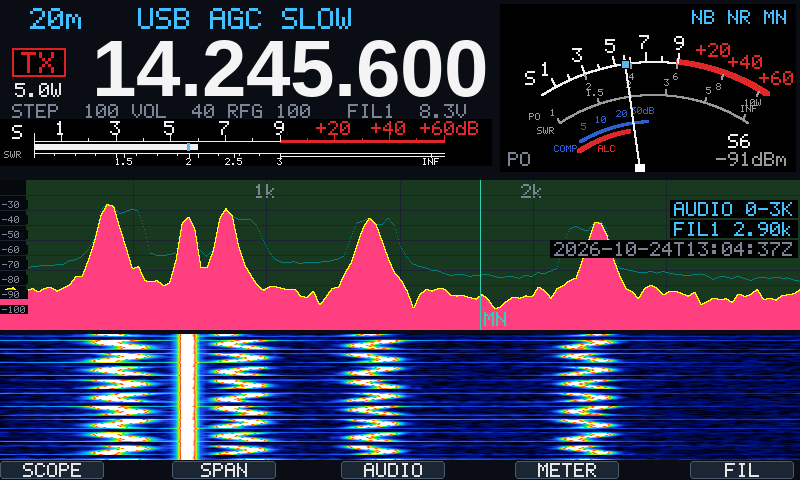
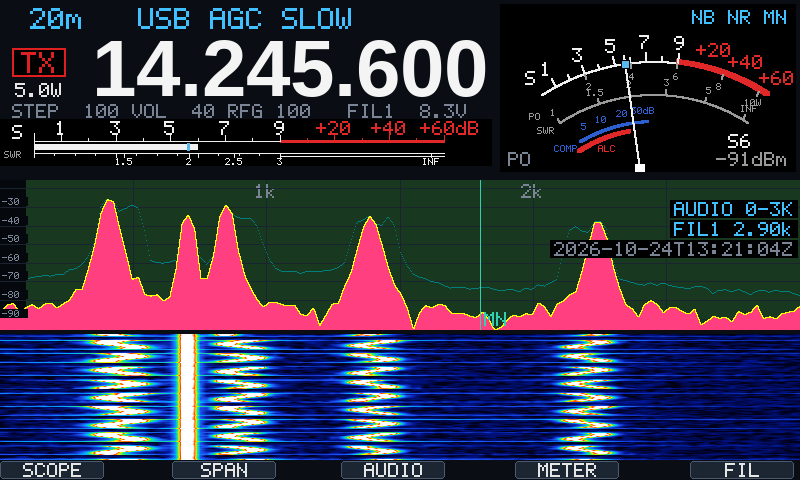
x6100_trx: audio scope with floor-normalised scale, narrower in split view (3/8)

diff --git a/tools/x6100_trx.c b/tools/x6100_trx.c
@@ -1168,6 +1168,8 @@ static bool on_knob(rx_t *rx, input_t in, int value)
 #define AS_RATE		48000
 #define AS_DB_MIN	-110.0f	/* dBFS */
 #define AS_DB_MAX	-10.0f
+#define AS_RANGE_DB	80.0f		/* normalised window height */
+#define AS_FLOOR_DB	10.0f		/* window bottom under the audio floor */
 #define SPEC_Y		180
 #define SPEC_H		150
 #define WF_Y		(SPEC_Y + SPEC_H + 4)
@@ -2289,9 +2291,14 @@ static float audio_db_at(const float *a, int x, int w, int range_hz)
 	return (float) (a[i] * (1.0 - t) + a[i + 1] * t);
 }
 
+// Audio scope vertical scale, normalised: the bottom follows the audio noise
+// floor (AS_FLOOR_DB under it) and the window is AS_RANGE_DB high, so the
+// picture stays put whatever the volume or band noise; labels stay in dBFS
+static float g_as_bottom = AS_DB_MIN;
+
 static int audio_y(float db)
 {
-	float n = (db - AS_DB_MIN) / (AS_DB_MAX - AS_DB_MIN);
+	float n = (db - g_as_bottom) / AS_RANGE_DB;
 
 	n = n < 0.0f ? 0.0f : n > 1.0f ? 1.0f : n;
 	return SPEC_Y + SPEC_H - 1 - (int) (n * (float) (SPEC_H - 1));
@@ -2309,6 +2316,8 @@ static void draw_audio_spec(screen_t *scr, const rx_t *rx, int x0, int w)
 	const int range = rx->arange ? 6000 : 3000;
 	uint32_t lo, hi;
 	int prev_y = -1;
+
+	g_as_bottom = scr->aspec_valid ? scr->afloor - AS_FLOOR_DB : AS_DB_MIN;
 
 	x6100_lcd_fill(lcd, x0, SPEC_Y, w, SPEC_H, 0x05080C);
 
@@ -2338,7 +2347,7 @@ static void draw_audio_spec(screen_t *scr, const rx_t *rx, int x0, int w)
 		}
 	}
 
-	for (int db = (int) AS_DB_MAX - GRID_DB; db > (int) AS_DB_MIN; db -= GRID_DB)
+	for (int db = (int) ceilf(g_as_bottom / GRID_DB) * GRID_DB; db < g_as_bottom + AS_RANGE_DB; db += GRID_DB)
 		x6100_lcd_hline(lcd, x0, x0 + w - 1, audio_y((float) db), 0x1A2430);
 
 	if (scr->aspec_valid) {
@@ -2356,7 +2365,7 @@ static void draw_audio_spec(screen_t *scr, const rx_t *rx, int x0, int w)
 	}
 
 	// dBFS labels in the left margin of this part, over the trace
-	for (int db = (int) AS_DB_MAX - GRID_DB; db > (int) AS_DB_MIN; db -= GRID_DB) {
+	for (int db = (int) ceilf(g_as_bottom / GRID_DB) * GRID_DB; db < g_as_bottom + AS_RANGE_DB; db += GRID_DB) {
 		char lbl[8];
 		int gy = audio_y((float) db);
 
@@ -2624,7 +2633,7 @@ static void draw_screen(screen_t *scr, const rx_t *rx, bool new_line)
 	// AF right). A change of view starts a fresh waterfall.
 	//
 	int view = rx->asplit ? 2 : rx->ascope ? 1 : 0;
-	const int SW = view == 2 ? W / 2 : W;	/* RF scope width */
+	const int SW = view == 2 ? W * 5 / 8 : W;	/* RF scope width; the audio part gets 3 / 8 */
 
 	if (view != scr->wf_view) {
 		x6100_lcd_fill(lcd, 0, WF_Y, W, WF_H(lcd), 0x000000);

diff --git a/docs/x6100_trx_quickref.md b/docs/x6100_trx_quickref.md
@@ -40,7 +40,7 @@ Out-of-range frequency arguments are refused (a stray `20` is not 20 Hz).
 | AGC | off / slow / fast / auto, per mode group | |
 | F1 | scroll on / off: CENTER <-> SCROLL-C, FIX <-> SCROLL-F | CENTER family <-> FIX family |
 | F2 | span ±48 / 24 / 12 / 6 / 3 / 1.5 kHz; audio scope: 0-3 / 0-6 kHz | |
-| F3 | audio scope on / off (RF <-> AF) | RF scope left + audio scope right, on / off |
+| F3 | audio scope on / off (RF <-> AF) | RF scope left (5/8) + audio scope right (3/8), on / off |
 | F4 | TX meter: PO / SWR / ALC | |
 | F5 | filter FIL1 / FIL2 / FIL3 | filter panel |
 | PTT | hold = TX; tap (< 400 ms) = latch, next press drops | |
@@ -99,7 +99,7 @@ Values are not saved yet: x6100_trx starts with NR 20, NB 10 / 10, notch 1000 / 
 - S-meter: S0-S9, then S9+10 .. S9+60 in rounded 10 dB steps; dBm line exact
 - AGC default AUTO; AM / FM SLOW (AUTO squashes AM)
 - F1-F5 tags along the bottom edge: SCOPE, SPAN, AUDIO, METER, FIL
-- Audio scope (F3; F3 long: next to the RF scope, RF left / AF right): spectrum and waterfall of the demodulated RX audio (codec capture, 48 kHz), 0-3 or 0-6 kHz (F2), dBFS scale, receive passband shaded, MN line at the notch when on. The capture is opened only while the audio scope is shown
+- Audio scope (F3; F3 long: next to the RF scope, RF left / AF right): spectrum and waterfall of the demodulated RX audio (codec capture, 48 kHz), 0-3 or 0-6 kHz (F2), normalised dBFS scale (80 dB window, its bottom 10 dB under the audio noise floor, so the picture stays put with volume and band noise), receive passband shaded, MN line at the notch when on. The capture is opened only while the audio scope is shown
 - OVF (red, top left of the dial): flow IQ at its clip level
 - NB / NR / MN (blue, top right of the dial) in fixed places, e.g. `NB    MN`, `   NR   `, `NB NR MN`; MN = manual notch, as on Icom radios
 - Tune panel (ATU long press / CAT): amber TUNING with live PO and SWR bars (SWR green / yellow / red), then green TUNED for 4 s with the time taken and the network (L, C, S in decimal, relay bits and hex)
